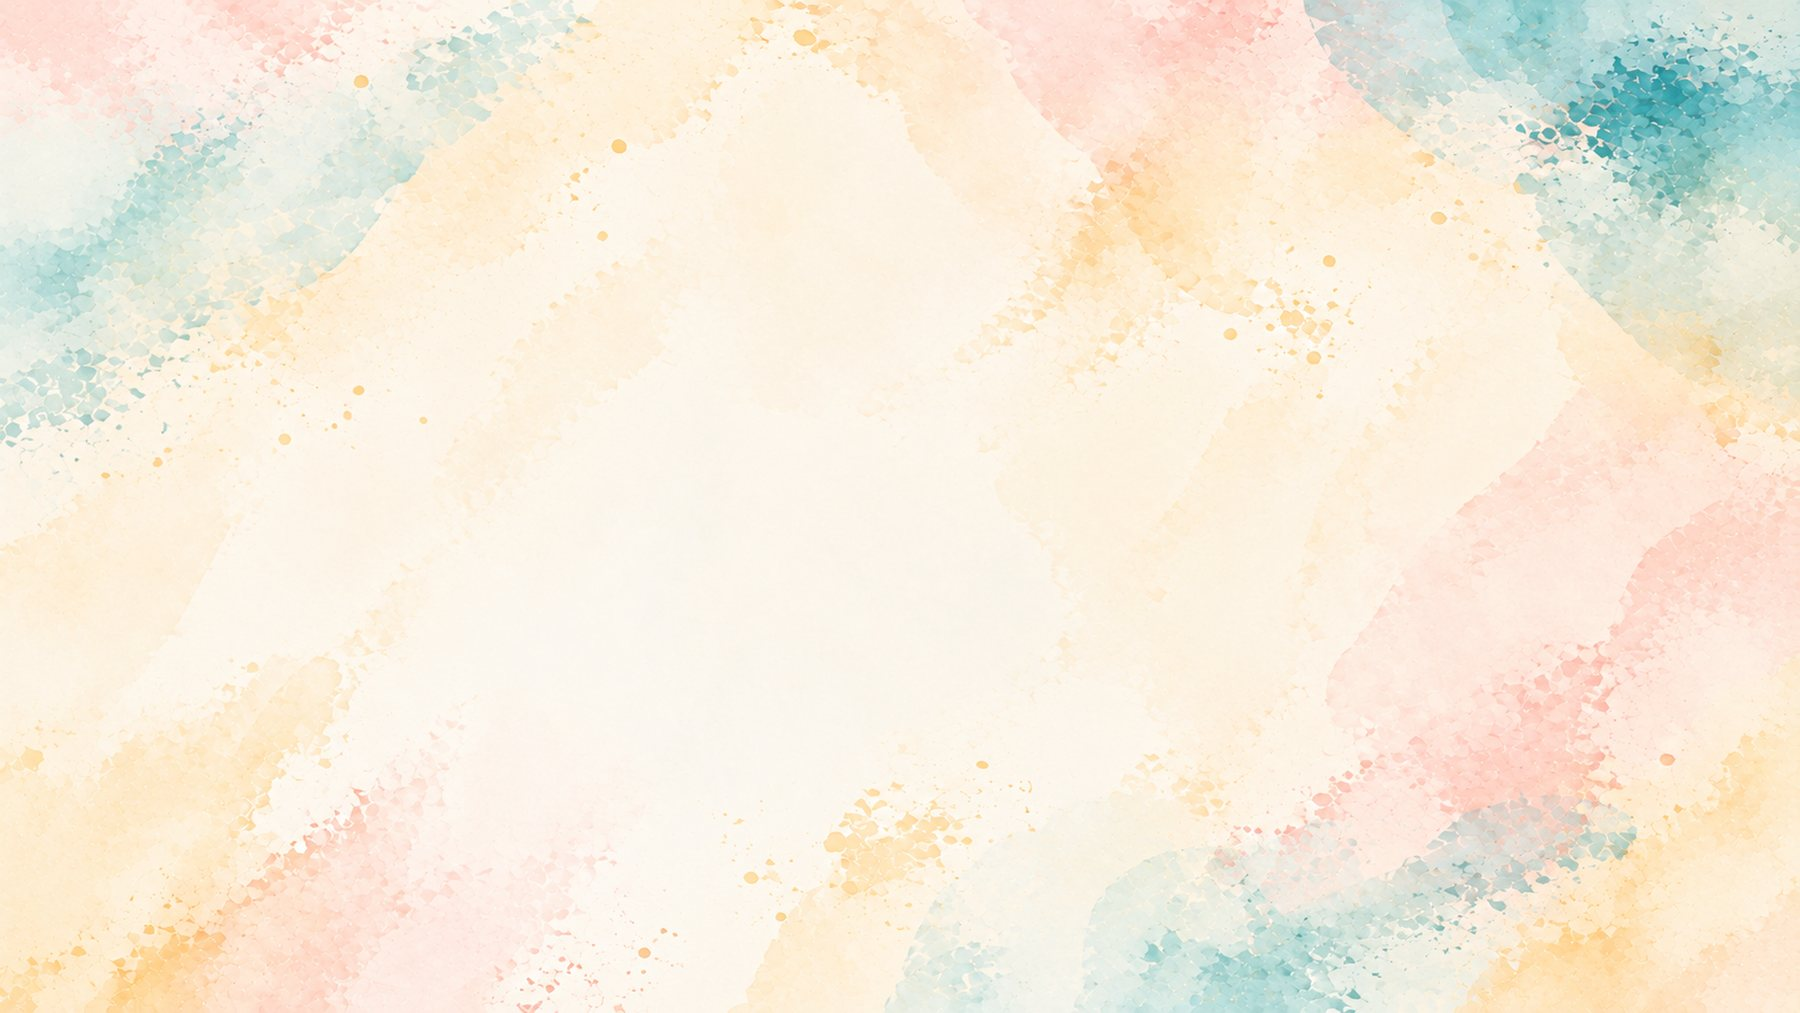
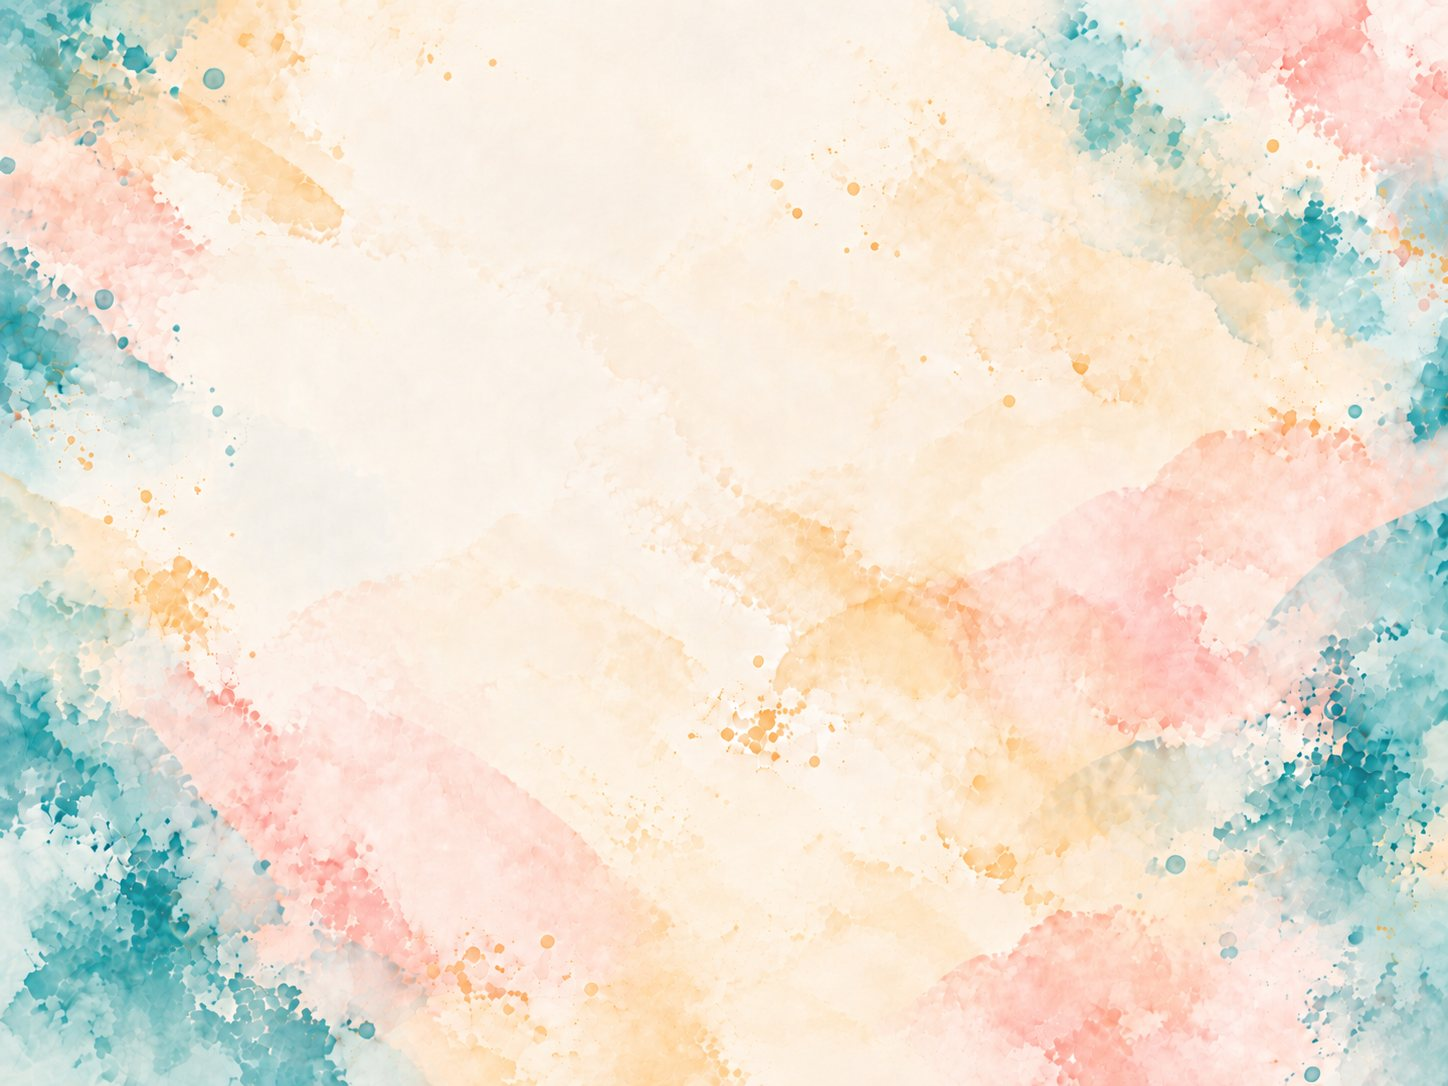
Benefits: use client's uploaded watercolour (img.png), optimized to web quality
- Optimize uploaded img.png to assets/img/benefits-bg.jpg (1.9MB -> 173KB)
- Set as benefit strip background with light overlay for text readability
- Remove earlier generated watercolour SVG; cache-bust to v26

diff --git a/index.html b/index.html
@@ -16,7 +16,7 @@
   <link rel="preconnect" href="https://fonts.gstatic.com" crossorigin />
   <link href="https://fonts.googleapis.com/css2?family=Cormorant+Garamond:wght@400;500;600;700&family=Manrope:wght@400;500;600;700&display=swap" rel="stylesheet" />
 
-  <link rel="stylesheet" href="css/styles.css?v=25" />
+  <link rel="stylesheet" href="css/styles.css?v=26" />
 </head>
 <body>
   <!-- ============ HEADER / NAV ============ -->
@@ -77,7 +77,7 @@
     </div>
   </section>
 
-  <script src="js/main.js?v=25" defer></script>
-  <script src="js/protect.js?v=25" defer></script>
+  <script src="js/main.js?v=26" defer></script>
+  <script src="js/protect.js?v=26" defer></script>
 </body>
 </html>

diff --git a/css/styles.css b/css/styles.css
@@ -210,7 +210,7 @@ h1, h3 { font-family: var(--serif); margin: 0; line-height: 1.08; }
 .benefits {
   position: relative;
   background: var(--cream);
-  background-image: url("../assets/img/benefits-watercolor.svg?v=3");
+  background-image: linear-gradient(rgba(253, 248, 238, 0.28), rgba(253, 248, 238, 0.28)), url("../assets/img/benefits-bg.jpg");
   background-size: cover;
   background-position: center;
 }
